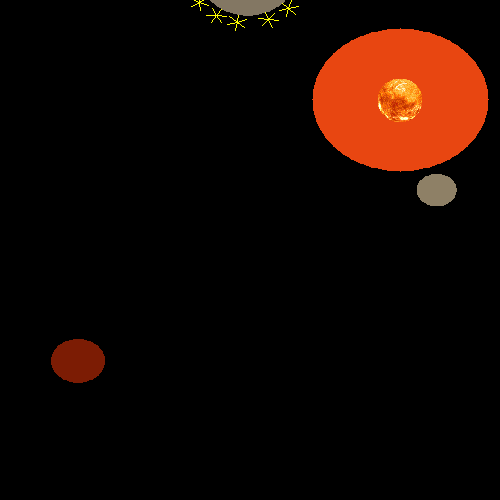
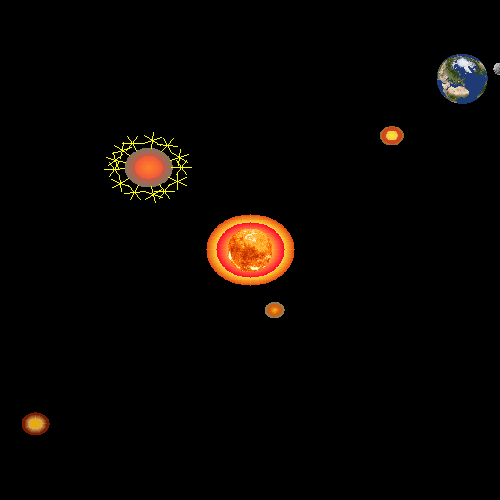
start experimenting 2Dlize for one planet

diff --git a/TheLastSunset/SolarSystem2D.java b/TheLastSunset/SolarSystem2D.java
@@ -3,8 +3,6 @@ import java.io.*;
 import java.awt.*;
 import java.awt.image.*;
 import javax.imageio.*;
-import javax.sql.rowset.spi.XmlReader;
-import javax.swing.text.AttributeSet.ColorAttribute;
 
 public class SolarSystem2D {
     static GfxVector view = new GfxVector(0, 0, 1);
@@ -12,14 +10,14 @@ public class SolarSystem2D {
         Screen s = new Screen();
 
         //variables
-        int dist = 300;
-        int radius = 25 * 2;
+        int dist = 200;
+        int radius = 25;
 
         //set up the world at the center
         Matrix transform = new Matrix();
         transform.ident();
         Stack<Matrix> csystems = new Stack<Matrix>();
-        Matrix tmp = new Matrix(Matrix.TRANSLATE, 400, 400, 250);
+        Matrix tmp = new Matrix(Matrix.TRANSLATE, 250, 250, 250);
         tmp.mult(transform);
         csystems.push(tmp.copy());
 

diff --git a/TheLastSunset/Screen.java b/TheLastSunset/Screen.java
@@ -166,10 +166,11 @@ public class Screen {
 
   public void plot(Color c, int x, int y, double z) {
     int newy = width - 1 - y;
-    if (x >= 0 && x < width && newy >= 0 && newy < height &&
-        z > zbuffer[x][newy]) {
-      img.setRGB(x, newy, c.getRGB());
-      zbuffer[x][newy] = z;
+    if (x >= 0 && x < width && newy >= 0 && newy < height){
+      if ((int) (z * 1000) >= (int) (zbuffer[x][newy] * 1000)){
+        img.setRGB(x, newy, c.getRGB());
+        zbuffer[x][newy] = z;
+      }
     }
   }//plot
 

diff --git a/TheLastSunset/Test.java b/TheLastSunset/Test.java
@@ -1,0 +1,3 @@
+public class Test {
+    
+}
